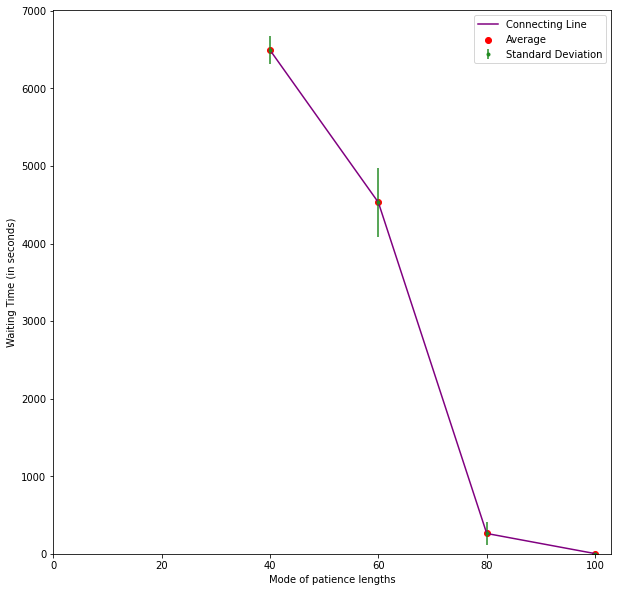
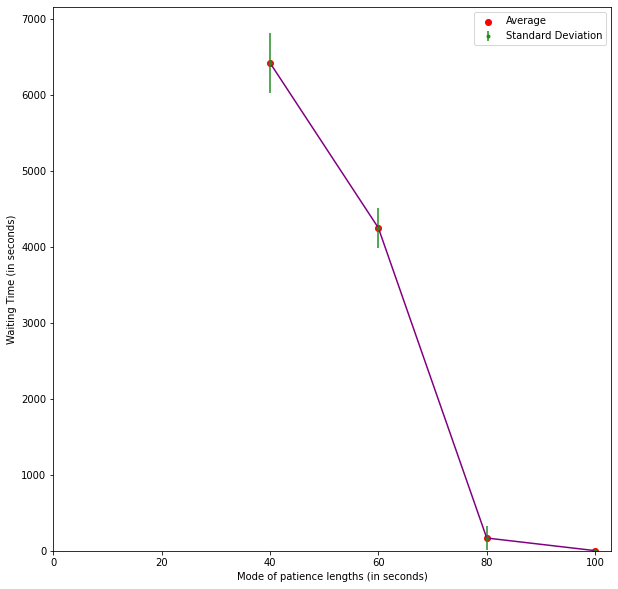
draft for Satya

diff --git a/human.tex b/human.tex
@@ -476,7 +476,7 @@ modified Gaussian distributions that were used.
 When the sampled step possibility value is 1, and the patience length value is
 smaller than the step length value, the user will call the expert for help.
 This represents a user giving up on a step that is possible.
-One can increase the fraction of steps that a user will give up on by shifting
+One can increase the proportion of steps that a user will give up on by shifting
 the step length distribution to the right and/or shifting the patience length
 distribution to the left.
 
@@ -598,21 +598,27 @@ The notebook generates a graph similar to Figure~\ref{fig:full_expected_sim}.
 
 This simulation allows us to see how average wait time changes, when we modify
 one variable and leave all other variables constant.
+Although the quantitative outcomes will depend on the specific source
+distributions, which were parameterized here based on observation of previous
+WCA applications, the results of these simulations illustrate the pronounced
+increases in wait time that occur given a shift in critical parameters, such as
+greater incidence of impossible steps, reduced user patience, or inclusion of
+more long steps that lead users to call on the expert.
 
 We ran these simulations with nine experts.
 We sample from the same distributions used in Simulation 3.
 The simulation was run ten times for each variable value we tested.
 
-\subsection{Varying the Fraction of Possible Steps}
+\subsection{Varying the Proportion of Possible Steps}
 
-This experiment varied the fraction of steps that the user had the ability to
+This experiment varied the proportion of steps that the user had the ability to
 complete.
 A possible step is one that a user can complete if they spend enough time on it.
 However, a user might choose to give up and call the expert before the step is
 complete.
 An impossible step cannot be completed unless the user calls the expert.
 Results are shown in Figure~\ref{fig:vary_success}.
-As the fraction of impossible steps increases, the average waiting time
+As the proportion of impossible steps increases, the average waiting time
 increases.
 This is because an increase in the number of impossible steps will increase the
 number of calls to the expert.
@@ -620,8 +626,13 @@ number of calls to the expert.
 \begin{figure}[H]
   \includegraphics[width=\textwidth]{figures/montecarlo/vary_success.png}
   \caption{
-    The average wait time that resulted from changing the fraction of possible
+    The average wait time that resulted from changing the proportion of possible
     steps.
+    These wait times were fit by a second-order polynomial as shown, with an
+    $R^2$ value of over 0.99.
+    This indicates a steep cost as a WCA application is penetrated by impossible
+    steps, for example, due to ineffective image processing or manufacturing
+    error.
   }\label{fig:vary_success}
 \end{figure}
 
@@ -641,6 +652,10 @@ Thus the average waiting time decreases as average patience length increases.
   \caption{
     The average wait time that resulted from changing the amount of users'
     simulated patience.
+    Given the current parameters, with nine experts available, doubling the
+    modal
+    patience length from 40 sec to 80 sec moved waiting times from a scale of
+    minutes to hours.
   }\label{fig:vary_patience}
 \end{figure}
 
@@ -659,5 +674,9 @@ Therefore, increasing average step length increases the average waiting time.
   \caption{
     The average wait time that resulted from changing the average amount of time
     it took to complete a possible step.
+    Given the current parameters, with nine experts available, doubling the
+    average
+    step length from 80 sec to 160 sec moved waiting times from essentially no
+    waiting to over 2 hours.
   }\label{fig:vary_step_length}
 \end{figure}
